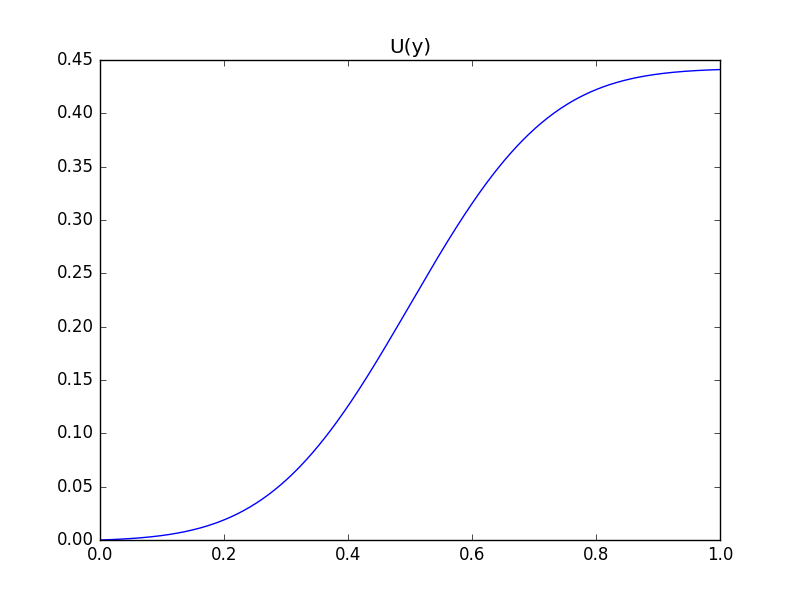
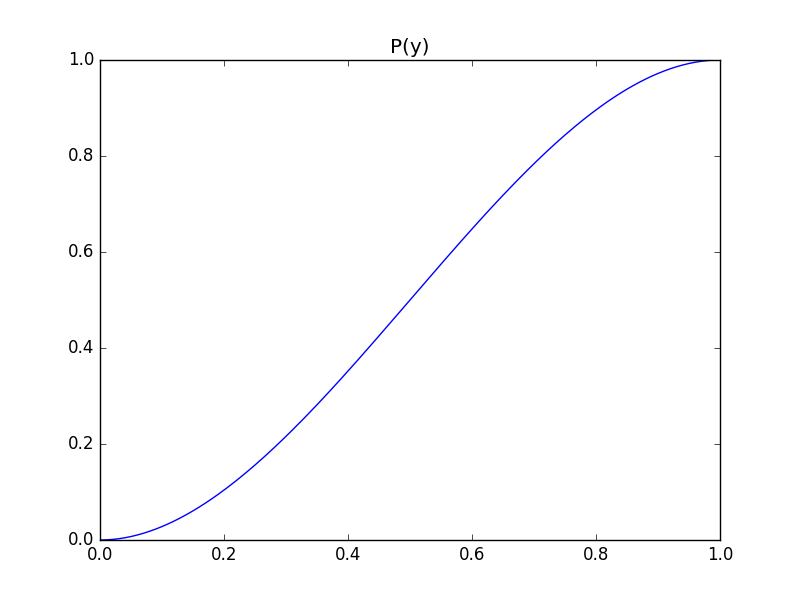
Fixes

diff --git a/numeric/views.py b/numeric/views.py
@@ -6,11 +6,15 @@ import matplotlib.pyplot as plt
 
 from django.conf import settings
 from django.shortcuts import render
+from django.views.decorators.cache import never_cache
+
 from numeric.forms import NumericForm
 from numeric.numeric import Numeric, Point, calc
 
 logger = logging.getLogger('Solver')
 solver = Numeric()
+
+clamp = lambda f, x, y: max(x, min(y, f))
 
 
 def tabulate(func, argname, max=1, steps=100):
@@ -41,6 +45,7 @@ def tabulate(func, argname, max=1, steps=100):
     return ff
 
 
+@never_cache
 def manual(request):
     context = {}
     form = NumericForm()
@@ -57,30 +62,39 @@ def manual(request):
             dens = tabulate(form.cleaned_data['density'], 'w', 1, steps)
             s = tabulate(form.cleaned_data['S'], 't', T, steps)
             z = tabulate(form.cleaned_data['z'], 't', T, steps)
-
-            # x_st = float(form.cleaned_data['x_start'])
             x_st = s(0)
             y_st = float(form.cleaned_data['y_start'])
 
             B = float(form.cleaned_data['B'])
 
             context['pics'] = []
+            prob = solver.freeze(solver.integral(dens, 0, 0, steps), 0, 1, steps)
 
-            u_y = solver.integral(dens, 0, 0, steps)
+            f = lambda t, x: calc(function,
+                                  x=x[0],
+                                  t=t,
+                                  y=x[1],
+                                  B=B, T=T, p=dens, U=lambda y: (1-prob(y)), S=s, z=z)
 
-            dy, u = solver.prepare(u_y, dens, s, z, function, B=B, T=T)
+            # dy, u = solver.prepare(prob, dens, s, z, function, B=B, T=T)
             dz = solver.derivative(z)
+            dz = solver.freeze(dz, 0, T, steps)
 
-            y = lambda t, x: solver.integral(lambda _t: dy(_t, x), 0, y_st, steps)(t)
+            def equation(t, x):
+                return [
+                    dz(t) * (1 - prob(x[1])),
+                    f(t, x)
+                ]
 
-            def ptb_x(t, x): return dz(t) * (1 - u_y(y(t, x)))
+            pts = solver.solve_differential(equation, [x_st, y_st], T, steps)
+            x_t = [Point(p.x, p.y[0]) for p in pts]
+            y_t = [Point(p.x, p.y[1]) for p in pts]
 
-            pts = solver.solve_differential(ptb_x, x_st, T, steps)
+            x = solver.interpolate(x_t)
+            y = solver.interpolate(y_t)
 
-            x = solver.interpolate(pts)
-
-            tabs = solver.table(lambda t: y(t, x(t)), 0, T, steps)
-            u_y.tabs = solver.table(u_y, 0, 1, steps)
+            tabs = solver.table(y, 0, T, steps)
+            prob.tabs = solver.table(prob, 0, 1, steps)
             context['tabs'] = tabs
 
             # fig = plt.figure()
@@ -126,8 +140,8 @@ def manual(request):
             context['pics'].append('/static/dens.png')
 
             fig = plt.figure()
-            plt.title('U(y)')
-            plt.plot([p.x for p in u_y.tabs], [p.y for p in u_y.tabs])
+            plt.title('P(y)')
+            plt.plot([p.x for p in prob.tabs], [p.y for p in prob.tabs])
             fig.savefig(settings.STATIC_DIR + 'prob.png')
             context['pics'].append('/static/prob.png')
 
@@ -160,7 +174,6 @@ def auto(request):
             y = solver.prepare(U, p, s, z, function)
             eq = lambda t, x: dz(t) * (1 - U(y(t, x)))
             x = solver.solve_differential(eq, 0)
-
 
             b_start = float(form.cleaned_data['b_start'])
             b_end = float(form.cleaned_data['b_end'])

diff --git a/numeric/numeric.py b/numeric/numeric.py
@@ -1,11 +1,12 @@
 import math
 import numpy as np
+np.seterr('raise')
 
 
 def calc(f, *args, **kwargs):
     kwargs['math'] = math
-    kwargs['np'] = np
-    kwargs['clamp'] = lambda f, x, y: max(x, min(y, f))
+    # kwargs['np'] = np
+    kwargs['clamp'] = lambda q, x, y: max(x, min(y, q))
     kwargs['solver'] = Numeric()
     return eval(f, kwargs)
 
@@ -26,8 +27,8 @@ class Bounds(object):
         return self.y + self.h
 
     def union(self, r):
-        return Bounds.sides(np.min(self.x, r.x), np.max(self.xm, r.xm),
-                            np.min(self.y, r.y), np.max(self.ym, r.ym))
+        return Bounds.sides(min(self.x, r.x), max(self.xm, r.xm),
+                            min(self.y, r.y), max(self.ym, r.ym))
 
 
 Bounds.sides = lambda x, xm, y, ym: Bounds(x, y, xm - x, ym - y)
@@ -47,8 +48,8 @@ class Point(object):
         return '({:.2f}, {:.2f})'.format(self.x, self.y)
 
     def clip_to(self, b):
-        self.x = np.min(np.max(self.x, b.x if b.w > 0 else b.xm), b.xm if b.w > 0 else b.x)
-        self.y = np.min(np.max(self.y, b.y if b.h > 0 else b.ym), b.ym if b.h > 0 else b.y)
+        self.x = min(max(self.x, b.x if b.w > 0 else b.xm), b.xm if b.w > 0 else b.x)
+        self.y = min(max(self.y, b.y if b.h > 0 else b.ym), b.ym if b.h > 0 else b.y)
         return self
 
     def scale_to(self, b):
@@ -84,10 +85,10 @@ class Numeric(object):
         return lambda x: (f(x + step) - f(x - step)) / (2 * step)
 
     def table(self, f, a, b, n=100):
-        table = np.array([])
+        table = []
         for i in range(n + 1):
             x = a + (b - a) * (i / n)
-            table = np.append(table, [Point(x, f(x))])
+            table.append(Point(x, f(x)))
         return table
 
     def freeze(self, f, a, b, n=100):
@@ -275,12 +276,12 @@ class Numeric(object):
             t1 = i * step
             x1 = pts[len(pts) - 1].y
             k1 = f(t1, x1)
-            k2 = f(t1 + 0.5 * step, mat(x1, k1, step / 2))
+            k2 = f(t1 + step / 2, mat(x1, k1, step / 2))
             m2 = mat(k1, k2, 2)
-            k3 = f(t1 + 0.5 * step, mat(x1, k2, step / 2))
+            k3 = f(t1 + step / 2, mat(x1, k2, step / 2))
             m3 = mat(m2, k3, 2)
             k4 = f(t1 + step, mat(x1, k3, step))
             m4 = mat(m3, k4, 1)
-            pts = np.append(pts, [Point((i + 1) * step, mat(x1, m4, step / 6))])
+            pts.append(Point((i + 1) * step, mat(x1, m4, step / 6)))
 
         return pts

diff --git a/numeric/forms.py b/numeric/forms.py
@@ -9,7 +9,7 @@ class NumericForm(forms.Form):
         'class': 'form-control',
     }
     f = forms.CharField(widget=forms.Textarea(attrs=default_attrs),
-                        help_text='f(t, x, z, S, B, u, p)')
+                        help_text='f(t, x, z, S, B, U, p, y, T)')
     density = forms.CharField(widget=forms.Textarea(attrs=default_attrs),
                               help_text='p(w)')
     S = forms.CharField(widget=forms.Textarea(attrs=default_attrs),
